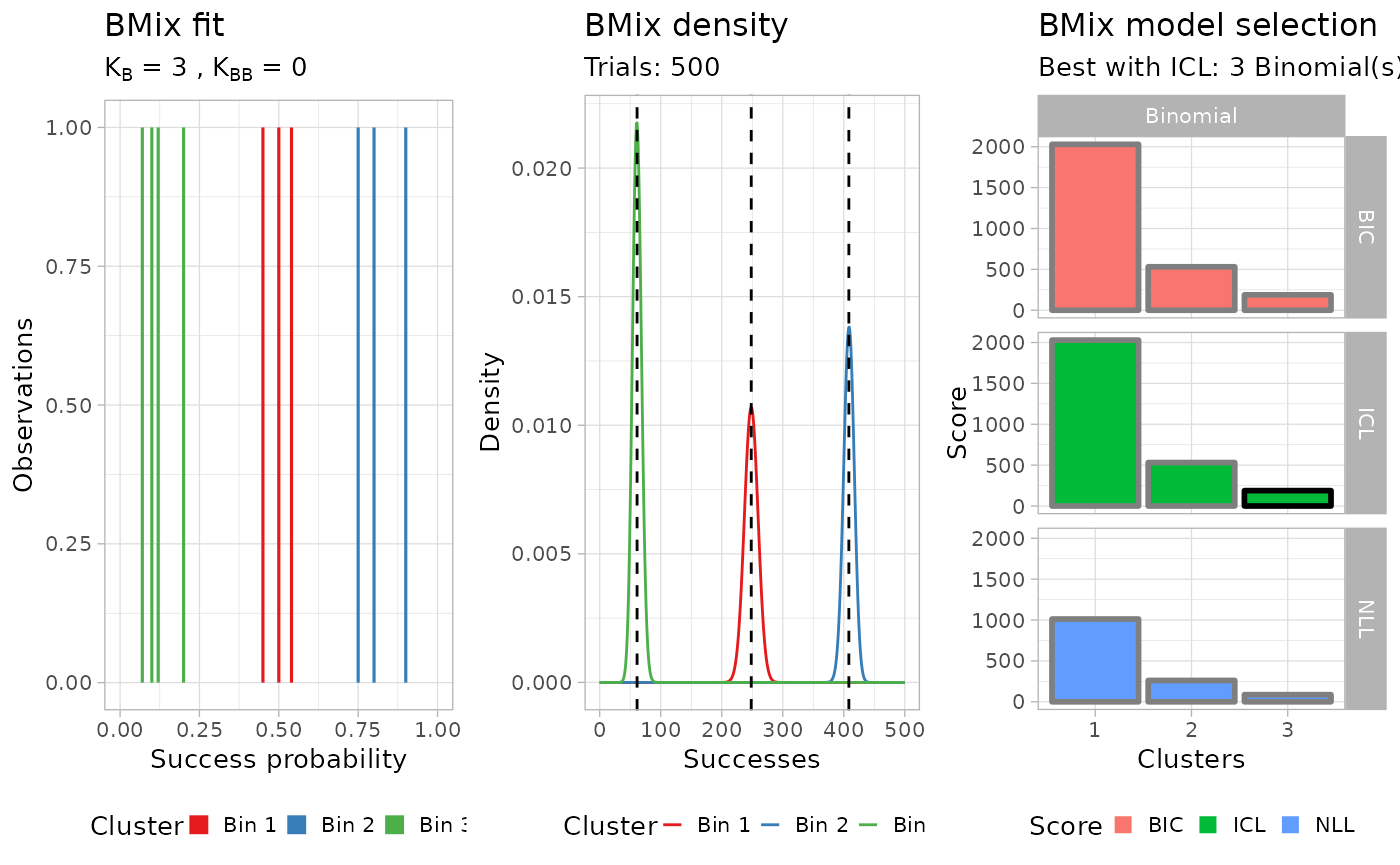
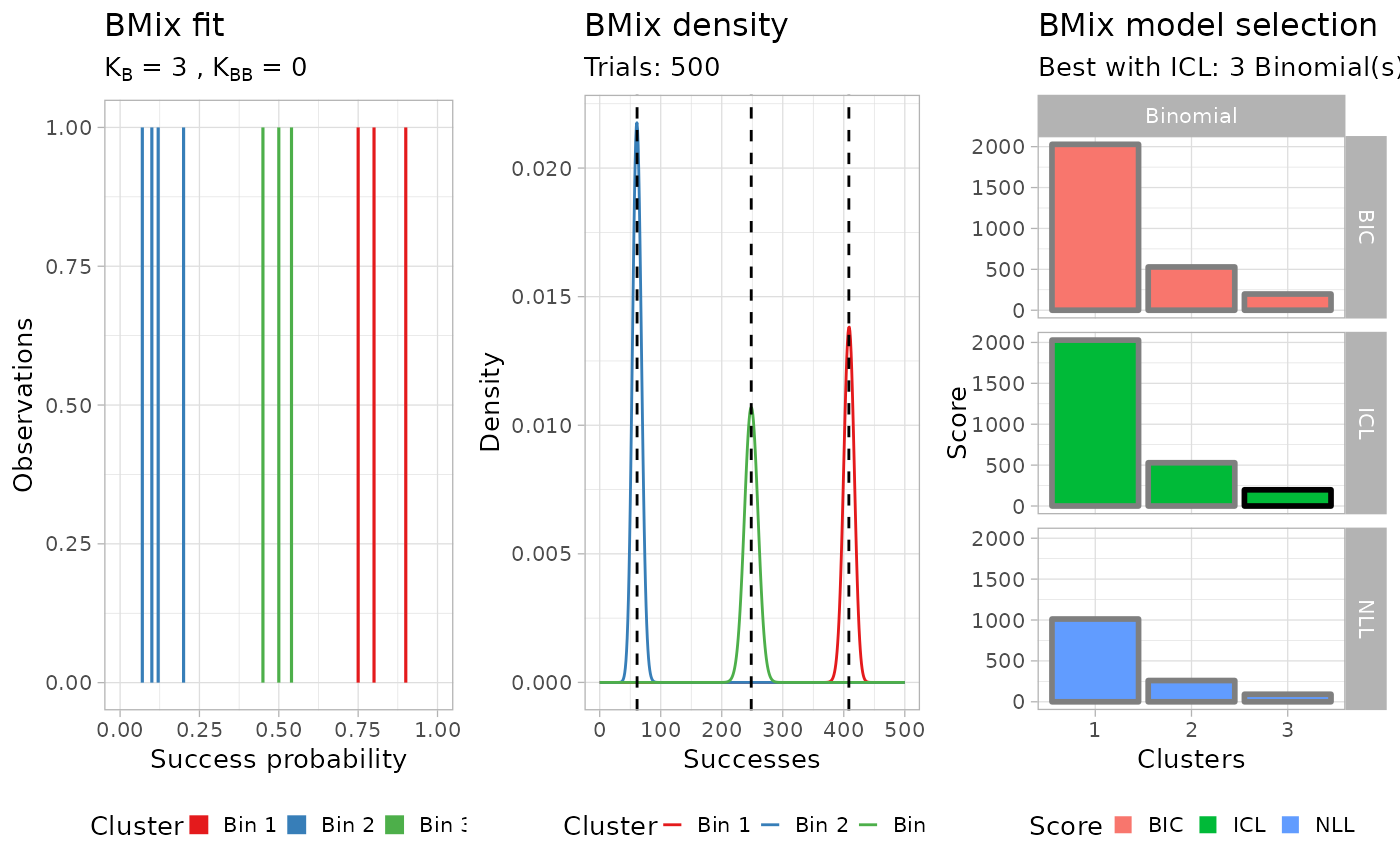
Deploying to gh-pages from @ caravagnalab/TAPACLOTH@230b770c16d9b0407a1b1fefb603d87cf0445b1a 🚀

diff --git a/reference/run_classifier.html b/reference/run_classifier.html
@@ -2,10 +2,6 @@
 <!-- Generated by pkgdown: do not edit by hand --><html lang="en"><head><meta http-equiv="Content-Type" content="text/html; charset=UTF-8"><meta charset="utf-8"><meta http-equiv="X-UA-Compatible" content="IE=edge"><meta name="viewport" content="width=device-width, initial-scale=1, shrink-to-fit=no"><meta name="description" content="Classify mutations. The classification task can be run either per sample,
 using either a Binomial or Beta-Binomial model-based statistical test, or
 per gene, in which case the classification is based on a terzile test across
-all samples.
-Classify mutations. The classification task can be run either per sample,
-using either a Binomial or Beta-Binomial model-based statistical test, or
-per gene, in which case the classification is based on a terzile test across
 all samples."><title>Classify mutations. The classification task can be run either per sample,
 using either a Binomial or Beta-Binomial model-based statistical test, or
 per gene, in which case the classification is based on a terzile test across
@@ -13,10 +9,6 @@ all samples. — run_classifier • TAPACLOTH</title><script src="../deps/jquery
 using either a Binomial or Beta-Binomial model-based statistical test, or
 per gene, in which case the classification is based on a terzile test across
 all samples. — run_classifier"><meta property="og:description" content="Classify mutations. The classification task can be run either per sample,
-using either a Binomial or Beta-Binomial model-based statistical test, or
-per gene, in which case the classification is based on a terzile test across
-all samples.
-Classify mutations. The classification task can be run either per sample,
 using either a Binomial or Beta-Binomial model-based statistical test, or
 per gene, in which case the classification is based on a terzile test across
 all samples."><!-- mathjax --><script src="https://cdnjs.cloudflare.com/ajax/libs/mathjax/2.7.5/MathJax.js" integrity="sha256-nvJJv9wWKEm88qvoQl9ekL2J+k/RWIsaSScxxlsrv8k=" crossorigin="anonymous"></script><script src="https://cdnjs.cloudflare.com/ajax/libs/mathjax/2.7.5/config/TeX-AMS-MML_HTMLorMML.js" integrity="sha256-84DKXVJXs0/F8OTMzX4UR909+jtl4G7SPypPavF+GfA=" crossorigin="anonymous"></script><!--[if lt IE 9]>
@@ -68,7 +60,7 @@ all samples."><!-- mathjax --><script src="https://cdnjs.cloudflare.com/ajax/lib
 using either a Binomial or Beta-Binomial model-based statistical test, or
 per gene, in which case the classification is based on a terzile test across
 all samples.</h1>
-      <small class="dont-index">Source: <a href="https://github.com/nicola-calonaci/TAPACLOTH/blob/HEAD/R/analyse_sample.R" class="external-link"><code>R/analyse_sample.R</code></a>, <a href="https://github.com/nicola-calonaci/TAPACLOTH/blob/HEAD/R/run_classifier.R" class="external-link"><code>R/run_classifier.R</code></a></small>
+      <small class="dont-index">Source: <a href="https://github.com/nicola-calonaci/TAPACLOTH/blob/HEAD/R/run_classifier.R" class="external-link"><code>R/run_classifier.R</code></a></small>
       <div class="d-none name"><code>run_classifier.Rd</code></div>
     </div>
 
@@ -77,17 +69,11 @@ all samples.</h1>
 using either a Binomial or Beta-Binomial model-based statistical test, or
 per gene, in which case the classification is based on a terzile test across
 all samples.</p>
-<p>Classify mutations. The classification task can be run either per sample,
-using either a Binomial or Beta-Binomial model-based statistical test, or
-per gene, in which case the classification is based on a terzile test across
-all samples.</p>
     </div>
 
     <div class="section level2">
     <h2 id="ref-usage">Usage<a class="anchor" aria-label="anchor" href="#ref-usage"></a></h2>
-    <div class="sourceCode"><pre class="sourceCode r"><code><span class="fu">run_classifier</span><span class="op">(</span><span class="va">data</span>, alpha_level <span class="op">=</span> <span class="fl">0.01</span>, model <span class="op">=</span> <span class="st">"Binomial"</span>, rho <span class="op">=</span> <span class="cn">NA</span><span class="op">)</span>
-
-<span class="fu">run_classifier</span><span class="op">(</span><span class="va">data</span>, alpha_level <span class="op">=</span> <span class="fl">0.01</span>, model <span class="op">=</span> <span class="st">"Binomial"</span>, rho <span class="op">=</span> <span class="cn">NA</span><span class="op">)</span></code></pre></div>
+    <div class="sourceCode"><pre class="sourceCode r"><code><span class="fu">run_classifier</span><span class="op">(</span><span class="va">data</span>, alpha_level <span class="op">=</span> <span class="fl">0.01</span>, model <span class="op">=</span> <span class="st">"Binomial"</span>, rho <span class="op">=</span> <span class="cn">NA</span><span class="op">)</span></code></pre></div>
     </div>
 
     <div class="section level2">
@@ -114,20 +100,10 @@ and is based on a terzile test.</p></dd>
 <dd><p>If Beta-Binomial model is selected, this parameter tunes the over-dispersion
 of the expected distribution used for the test.</p></dd>
 
-
-<dt>sample_name</dt>
-<dd><p>The name of the sample to be analysed.</p></dd>
-
 </dl></div>
     <div class="section level2">
     <h2 id="value">Value<a class="anchor" aria-label="anchor" href="#value"></a></h2>
     
-
-<p>A list containing the input table reduced to the selected sample, with
-the additional 'class' column accounting for the classification, the chosen
-model, over-dispersion parameter (NA if the model is not Beta-Binomial) and
-significance level used in the test.</p>
-
 
 <p>A list containing the input table reduced to the selected sample, with
 the additional 'class' column accounting for the classification, the chosen

diff --git a/articles/purity-estimates.html b/articles/purity-estimates.html
@@ -126,11 +126,11 @@
 <span class="co">## 'crayon::num_ansi_colors' when loading 'easypar'</span></code></pre>
 <pre><code><span class="co">## <span style="color: #00BBBB;">ℹ</span> <span style="font-weight: bold;">Bmix best fit</span> completed in 0 mins</span></code></pre>
 <pre><code><span class="co">## ── <span style="color: #000000; background-color: #BBBB00;">[ BMix ] My BMix model</span> n = 10 with <span style="color: #00BB00;">k = 3</span> component(s) (<span style="color: #00BB00;">3</span> + <span style="color: #00BB00;">0</span>) ───────────────</span></code></pre>
-<pre><code><span class="co">## • Clusters: π = 40% [<span style="color: #BBBB00;">Bin 3</span>], 30% [<span style="color: #BBBB00;">Bin 1</span>], and 30% [<span style="color: #BBBB00;">Bin 2</span>], with π &gt; 0.</span></code></pre>
-<pre><code><span class="co">## • Binomial <span style="color: #00BB00;">Bin 1</span> with mean = 0.496666666666667.</span></code></pre>
-<pre><code><span class="co">## • Binomial <span style="color: #00BB00;">Bin 2</span> with mean = 0.816666666666667.</span></code></pre>
-<pre><code><span class="co">## • Binomial <span style="color: #00BB00;">Bin 3</span> with mean = 0.1225.</span></code></pre>
-<pre><code><span class="co">## <span style="color: #00BBBB;">ℹ</span> Score (model selection): <span style="color: #00BB00;">ICL</span> = 188.19.</span></code></pre>
+<pre><code><span class="co">## • Clusters: π = 40% [<span style="color: #BBBB00;">Bin 2</span>], 30% [<span style="color: #BBBB00;">Bin 1</span>], and 30% [<span style="color: #BBBB00;">Bin 3</span>], with π &gt; 0.</span></code></pre>
+<pre><code><span class="co">## • Binomial <span style="color: #00BB00;">Bin 1</span> with mean = 0.816666666666667.</span></code></pre>
+<pre><code><span class="co">## • Binomial <span style="color: #00BB00;">Bin 2</span> with mean = 0.1225.</span></code></pre>
+<pre><code><span class="co">## • Binomial <span style="color: #00BB00;">Bin 3</span> with mean = 0.496666666666667.</span></code></pre>
+<pre><code><span class="co">## <span style="color: #00BBBB;">ℹ</span> Score (model selection): <span style="color: #00BB00;">ICL</span> = 198.3.</span></code></pre>
 <pre><code><span class="co">## Warning: `guides(&lt;scale&gt; = FALSE)` is deprecated. Please use `guides(&lt;scale&gt; =</span>
 <span class="co">## "none")` instead.</span></code></pre>
 <pre><code><span class="co">## Warning: Removed 6 rows containing missing values (geom_bar).</span></code></pre>

diff --git a/reference/index.html b/reference/index.html
@@ -70,7 +70,7 @@
         <dd>Plot results of classification and statistical test.</dd>
       </dl><dl><dt>
           
-          <code><a href="run_classifier.html">run_classifier()</a></code> <code><a href="run_classifier.html">run_classifier()</a></code> 
+          <code><a href="run_classifier.html">run_classifier()</a></code> 
         </dt>
         <dd>Classify mutations. The classification task can be run either per sample,
 using either a Binomial or Beta-Binomial model-based statistical test, or
